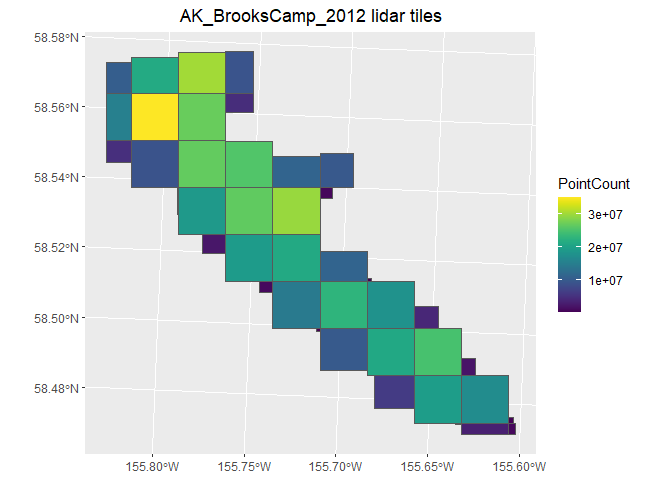
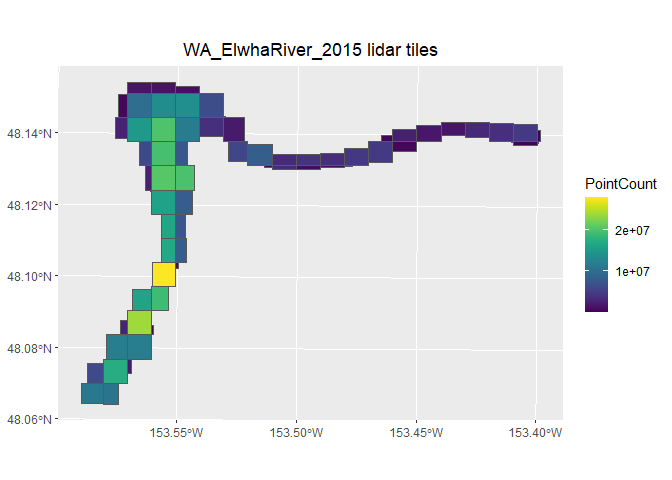
Fixed parsing of USGS http index listing

diff --git a/README.md b/README.md
@@ -4,7 +4,6 @@
 # LidarIndexR
 
 <!-- badges: start -->
-
 <!-- badges: end -->
 
 The goal of LidarIndexR is to provide functions to build index files for
@@ -39,38 +38,40 @@ information for the data.
 ``` r
 library(LidarIndexR)
 library(sf)
-#> Warning: package 'sf' was built under R version 4.0.5
-#> Linking to GEOS 3.9.1, GDAL 3.2.1, PROJ 7.2.1
 library(ggplot2)
-#> Warning: package 'ggplot2' was built under R version 4.0.5
 library(viridis)
-#> Warning: package 'viridis' was built under R version 4.0.5
-#> Loading required package: viridisLite
-#> Warning: package 'viridisLite' was built under R version 4.0.5
+
 ## Basic example to build an index
-URL <- "https://rockyweb.usgs.gov/vdelivery/Datasets/Staged/Elevation/LPC/Projects/AK_BrooksCamp_2012/"
-pointFolder <- "laz"
-outputFile <- "~/AK_BrooksCamp_2012.gpkg"
+URL <- "https://rockyweb.usgs.gov/vdelivery/Datasets/Staged/Elevation/LPC/Projects/WA_ElwhaRiver_2015"
+pointFolder <- "WA_Elwha_TB_2015/LAZ"
+outputFile <- "~/WA_ElwhaRiver_2015.gpkg"
 
 # projection info...for most projects, this can be pulled from the WESM project index
 pointCRS <- 26905
 
 # create index
-BuildIndexFromPoints(URL, pointFolder, outputFile, projString = pointCRS, 
-                     appendInfo = data.frame("Project" = "AK_BrooksCamp_2012"))
-#> Index already exist...skipping: AK_BrooksCamp_2012.gpkg
+BuildIndexFromPoints(URL, pointFolder, outputFile, projString = pointCRS,
+                     appendInfo = data.frame("Project" = "WA_ElwhaRiver_2015"))
 #> [1] TRUE
+```
+
+``` r
+
 # read the index and display
 index <- st_read(outputFile)
-#> Reading layer `AK_BrooksCamp_2012' from data source 
-#>   `G:\R_Stuff\AK_BrooksCamp_2012.gpkg' using driver `GPKG'
-#> Simple feature collection with 41 features and 17 fields
+#> Reading layer `WA_ElwhaRiver_2015' from data source 
+#>   `C:\Users\bmcgaughey\Documents\WA_ElwhaRiver_2015.gpkg' using driver `GPKG'
+#> Simple feature collection with 67 features and 17 fields
 #> Geometry type: POLYGON
 #> Dimension:     XY
-#> Bounding box:  xmin: 335201.4 ymin: 6484121 xmax: 348234.6 ymax: 6496318
+#> Bounding box:  xmin: 456087.6 ymin: 5323597 xmax: 470339.9 ymax: 5333589
 #> Projected CRS: NAD83 / UTM zone 5N
+```
+
+``` r
+
 ggplot(index) +
-  ggtitle("AK_BrooksCamp_2012 lidar tiles") +
+  ggtitle("WA_ElwhaRiver_2015 lidar tiles") +
   theme(plot.title = element_text(hjust = 0.5)) +
   geom_sf(aes(fill = PointCount), show.legend = TRUE) +
   scale_fill_viridis()
@@ -92,7 +93,7 @@ The example requires a local copy of the USGS project index from
 [here](https://rockyweb.usgs.gov/vdelivery/Datasets/Staged/Elevation/metadata/WESM.gpkg).
 The commented code in the example downloads the WESM.gpkg index.
 
-**Note:** The call to  can take quite a bit of time to execute. It
+**Note:** The call to can take quite a bit of time to execute. It
 touches every point file on the server to read bounding box information
 for the tiles. For projects with thousands of tiles, it can take hours
 to build the index.
@@ -113,11 +114,14 @@ library(viridis)
 # read the FESM index from a local file
 index <- st_read("G:/R_Stuff/EntwineIndex/WESM.gpkg")
 #> Reading layer `WESM' from data source `G:\R_Stuff\EntwineIndex\WESM.gpkg' using driver `GPKG'
-#> Simple feature collection with 2457 features and 26 fields
+#> Simple feature collection with 2785 features and 26 fields
 #> Geometry type: MULTIPOLYGON
 #> Dimension:     XY
 #> Bounding box:  xmin: -179.2501 ymin: 13.232 xmax: 179.8547 ymax: 71.507
 #> Geodetic CRS:  NAD83
+```
+
+``` r
 pointFolder <- "laz"
 outputFile <- "~/AK_BrooksCamp_2012_Proj.gpkg"
 
@@ -125,17 +129,25 @@ item <- index[which(index$workunit == "AK_BROOKSCAMP_2012"), ]
 
 # create index
 BuildIndexFromUSGSProjectIndexItem(item, pointFolder, outputFile)
-#> Index already exists...skipping: AK_BrooksCamp_2012_Proj.gpkg
 #> [1] TRUE
+```
+
+``` r
+
 # read the index and display
 tindex <- st_read(outputFile)
 #> Reading layer `AK_BrooksCamp_2012_Proj' from data source 
-#>   `G:\R_Stuff\AK_BrooksCamp_2012_Proj.gpkg' using driver `GPKG'
+#>   `C:\Users\bmcgaughey\Documents\AK_BrooksCamp_2012_Proj.gpkg' 
+#>   using driver `GPKG'
 #> Simple feature collection with 41 features and 23 fields
 #> Geometry type: POLYGON
 #> Dimension:     XY
 #> Bounding box:  xmin: 335201.4 ymin: 6484121 xmax: 348234.6 ymax: 6496318
 #> Projected CRS: NAD83 / UTM zone 5N
+```
+
+``` r
+
 ggplot(tindex) +
   ggtitle("AK_BrooksCamp_2012 lidar tiles") +
   theme(plot.title = element_text(hjust = 0.5)) +
@@ -163,7 +175,7 @@ tproject <- BuildProjectPolygonFromIndex(
   quiet = FALSE,
   nx = 2048, ny = 2048
 )
-#> Done with: ~/AK_BrooksCamp_2012_Proj.gpkg
+
 # display the project polygon
 ggplot(tproject) +
   ggtitle(paste0(item$workunit, " project area")) +
